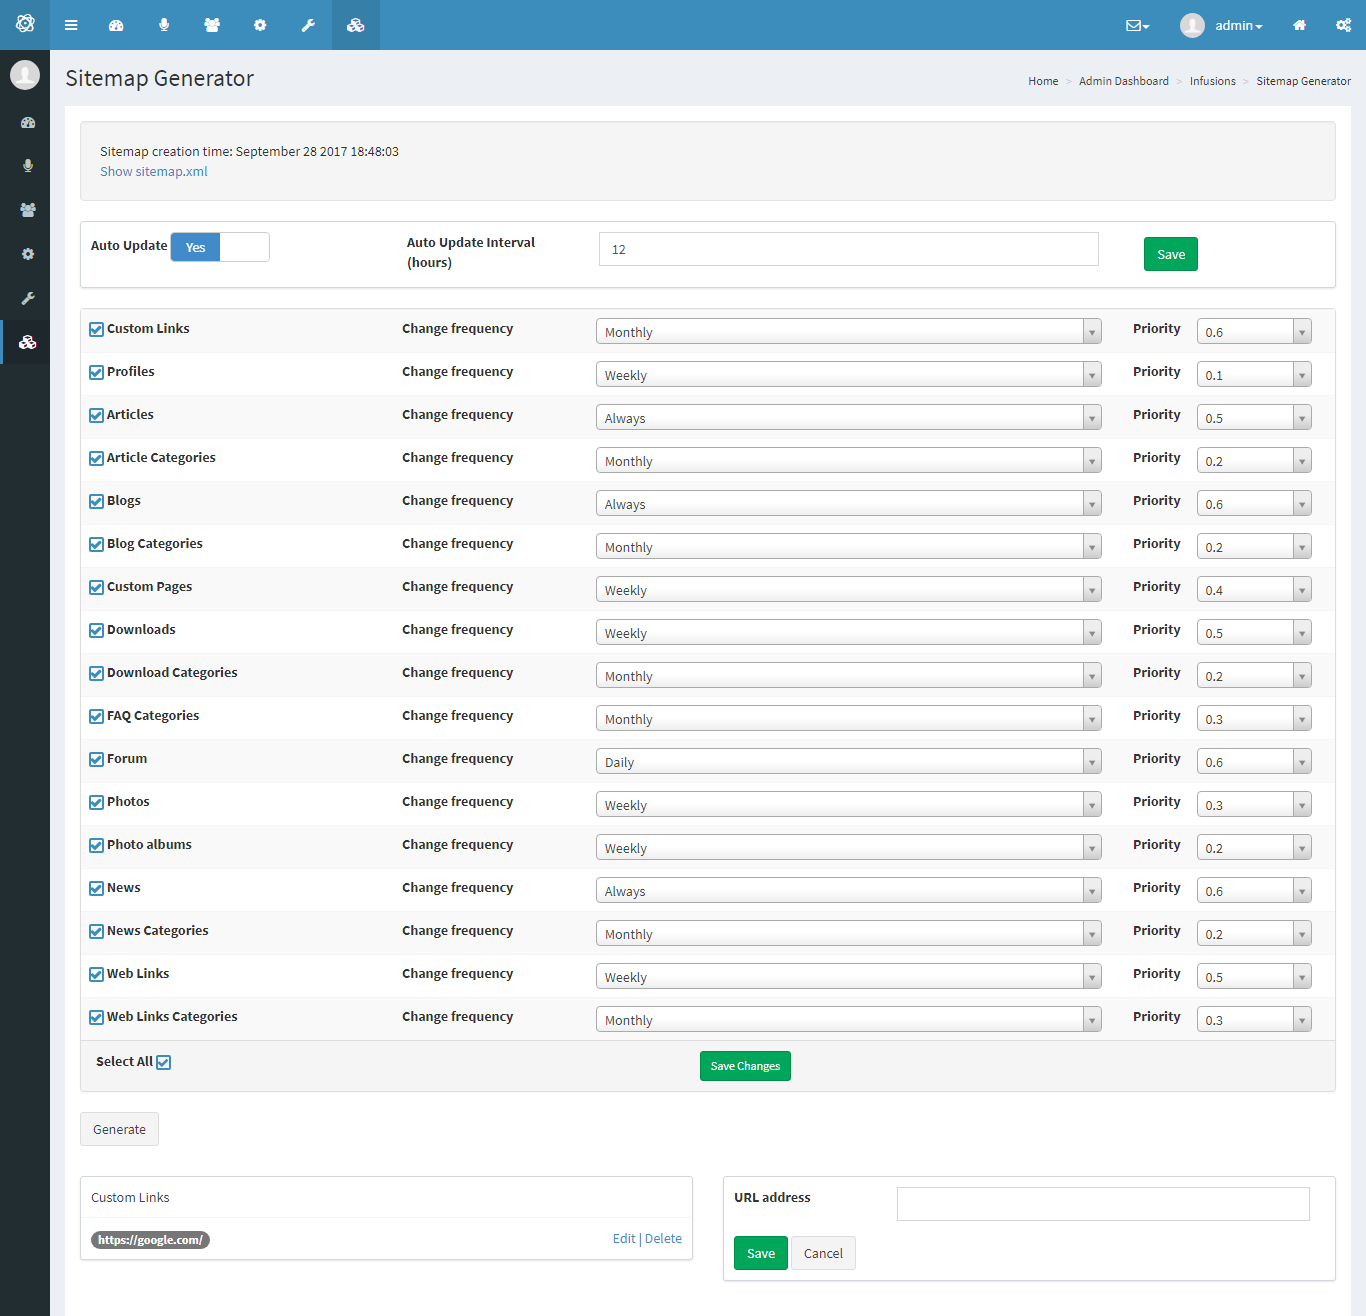
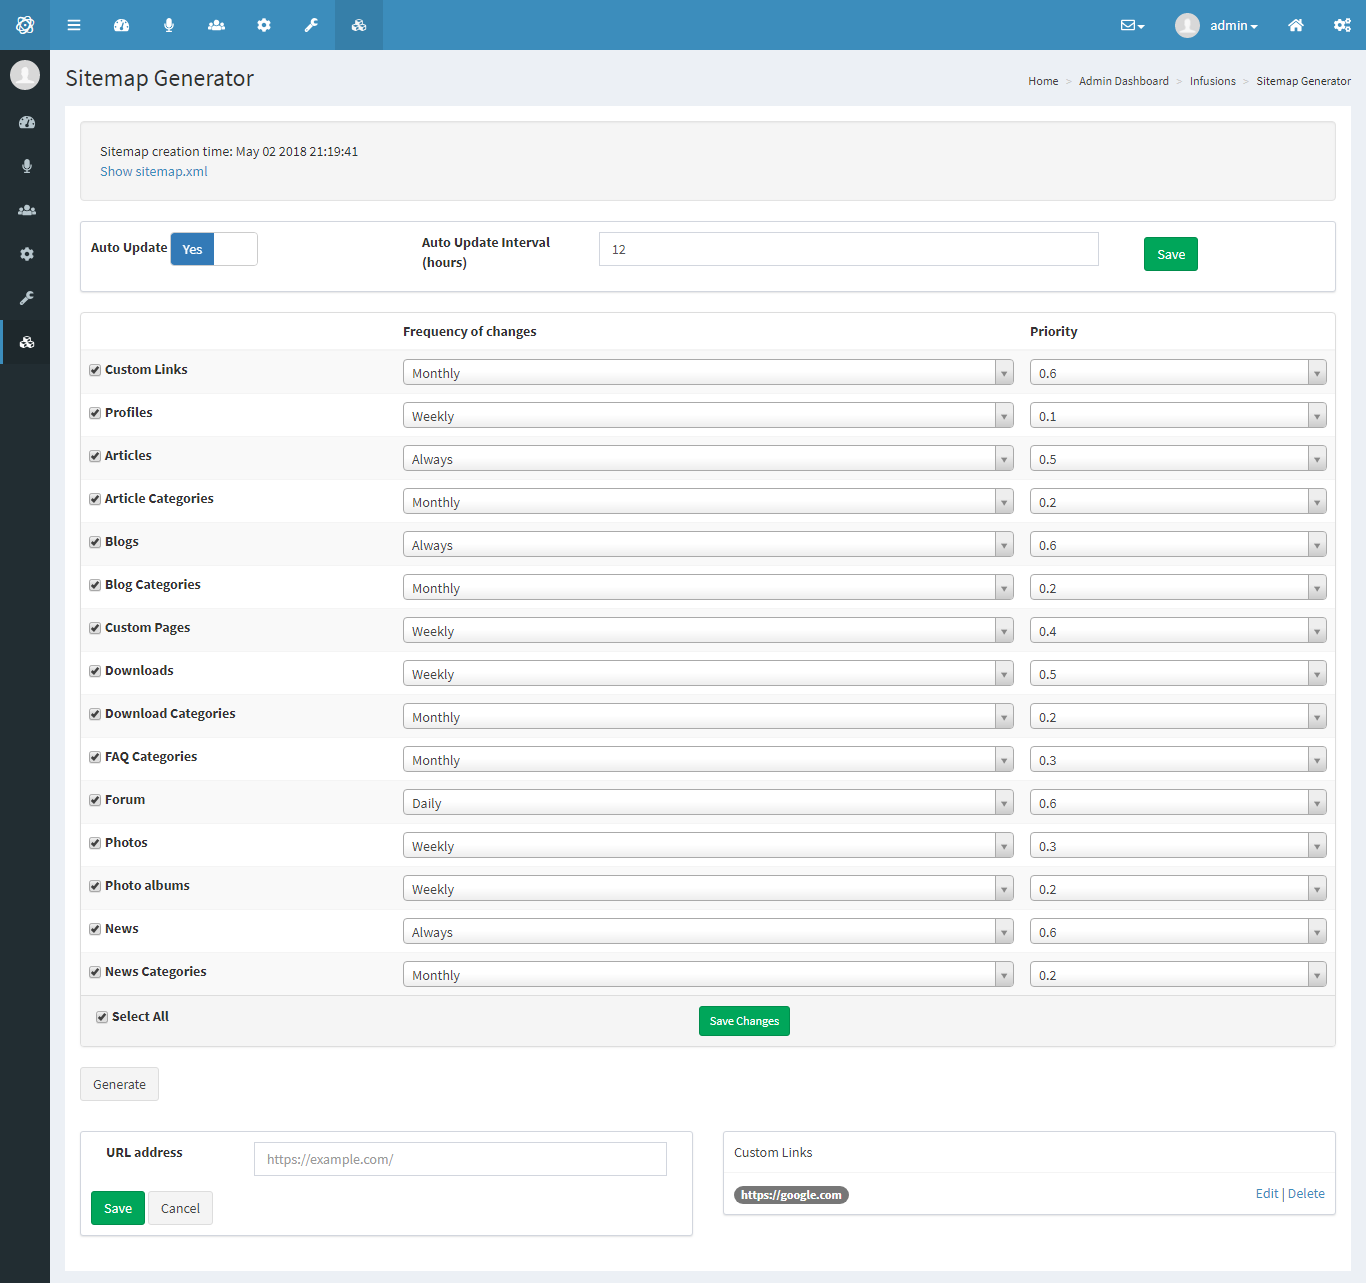
Update infusions

diff --git a/infusions/sitemap_panel/SitemapGenerator.php b/infusions/sitemap_panel/SitemapGenerator.php
@@ -18,7 +18,6 @@
 require_once INFUSIONS.'sitemap_panel/Sitemap.php';
 
 use \PHPFusion\BreadCrumbs;
-use samdark\sitemap\Sitemap;
 
 class SitemapGenerator {
     private $locale = [];
@@ -634,8 +633,8 @@ class SitemapGenerator {
                 ]);
                 $module .= '</td>';
 
-                $module .= '<td class="col-sm-7">';
-                $module .= form_select('frequency_'.$name, $this->locale['SMG_006'], $module_settings['frequency'], [
+                $module .= '<td class="col-sm-6">';
+                $module .= form_select('frequency_'.$name, '', $module_settings['frequency'], [
                     'inline'      => TRUE,
                     'options'     => [
                         'always'  => $this->locale['SMG_007'],
@@ -649,10 +648,9 @@ class SitemapGenerator {
                 ]);
                 $module .= '</td>';
 
-                $module .= '<td class="col-sm-2">';
-                $module .= form_select('priority_'.$name, $this->locale['SMG_014'], $module_settings['priority'], [
+                $module .= '<td class="col-sm-3">';
+                $module .= form_select('priority_'.$name, '', $module_settings['priority'], [
                     'inline'      => TRUE,
-                    'inner_width' => '60px',
                     'options'     => [
                         '0.0' => '0.0',
                         '0.1' => '0.1',
@@ -865,12 +863,20 @@ class SitemapGenerator {
         echo openform('savechanges', 'post', FUSION_REQUEST, ['class' => 'm-t-15']);
         echo '<div class="panel panel-default" id="sitemaptable">';
         echo '<div class="table-responsive"><table class="table table-striped">';
-            echo '<tbody>';
+            echo '<thead><tr>';
+                echo '<th></th>';
+                echo '<th>'.$this->locale['SMG_006'].'</th>';
+                echo '<th>'.$this->locale['SMG_014'].'</th>';
+            echo '</thead>';
+            echo '</tr><tbody>';
                 echo $this->Modules();
             echo '</tbody>';
         echo '</table></div>';
 
-        $selectall = form_checkbox('selectall', $this->locale['SMG_003'], '', ['class' => 'm-b-0']);
+        $selectall = form_checkbox('selectall', $this->locale['SMG_003'], '', [
+            'reverse_label' => TRUE,
+            'class'         => 'm-b-0'
+        ]);
         $save = form_button('save_changes', $this->locale['save_changes'], 'save', ['class' => 'btn-success btn-sm']);
 
         echo '<div class="panel-footer">';

diff --git a/infusions/videos/admin/video_cats.php b/infusions/videos/admin/video_cats.php
@@ -208,7 +208,7 @@ echo opentab($tab_cats, $tab_cats_active, 'categories', FALSE, 'nav-tabs m-b-10'
         FROM ".DB_VIDEO_CATS." vc_
         LEFT JOIN ".DB_VIDEO_CATS." vc ON vc.video_cat_parent=vc_.video_cat_id
         LEFT JOIN ".DB_VIDEOS." v ON v.video_cat=vc_.video_cat_id
-        WHERE vc_.video_cat_parent='".$data['video_cat_id']."' ".(multilang_table('VL') ? "AND vc_.video_cat_language='".LANGUAGE."'" : '')."
+        ".(multilang_table('VL') ? "WHERE vc_.video_cat_language='".LANGUAGE."'" : '')."
         GROUP by vc_.video_cat_id
         ORDER BY vc_.video_cat_name
     ");
@@ -219,7 +219,7 @@ echo opentab($tab_cats, $tab_cats_active, 'categories', FALSE, 'nav-tabs m-b-10'
                 echo '<div class="col-xs-12 col-sm-3">';
                     echo '<div class="well clearfix">';
                         echo '<div class="overflow-hide p-r-10">';
-                            echo '<span class="display-inline-block m-r-10 strong text-bigger">'.$data['video_cat_name'].'</span>';
+                            echo '<span class="display-inline-block m-r-10 strong text-bigger">'.get_video_cat_path($data['video_cat_id']).'</span>';
                             if ($data['video_cat_description']) {
                                 echo '<br /><small>'.fusion_first_words($data['video_cat_description'], 50).'</small>';
                             }
@@ -238,3 +238,23 @@ echo opentab($tab_cats, $tab_cats_active, 'categories', FALSE, 'nav-tabs m-b-10'
     }
     echo closetabbody();
 echo closetab();
+
+function get_video_cat_path($item_id) {
+    $full_path = '';
+
+    while ($item_id > 0) {
+        $result = dbquery("SELECT video_cat_id, video_cat_name, video_cat_parent FROM ".DB_VIDEO_CATS." WHERE video_cat_id='".$item_id."'".(multilang_table('VL') ? " AND video_cat_language='".LANGUAGE."'" : ''));
+
+        if (dbrows($result)) {
+            $data = dbarray($result);
+            if ($full_path) {
+                $full_path = ' / '.$full_path;
+            }
+
+            $full_path = $data['video_cat_name'].$full_path;
+            $item_id = $data['video_cat_parent'];
+        }
+    }
+
+    return $full_path;
+}

diff --git a/infusions/videos/templates/videos.php b/infusions/videos/templates/videos.php
@@ -155,7 +155,7 @@ if (!function_exists('display_video_menu')) {
             }
         echo '</ul>';
 
-        echo '<h4>'.$locale['VID_001'].'</h4>';
+        openside($locale['VID_001']);
         echo '<ul class="block">';
             $video_cat_menu = display_video_cats($info['video_categories']);
             if (!empty($video_cat_menu)) {
@@ -164,8 +164,9 @@ if (!function_exists('display_video_menu')) {
                 echo '<li>'.$locale['VID_072'].'</li>';
             }
         echo '</ul>';
+        closeside();
 
-        echo '<h4>'.$locale['VID_073'].'</h4>';
+        openside($locale['VID_073']);
             echo '<ul class="block">';
             if (!empty($info['video_author'])) {
                 foreach ($info['video_author'] as $author_id => $author_info) {
@@ -177,6 +178,7 @@ if (!function_exists('display_video_menu')) {
                 echo '<li>'.$locale['VID_074'].'</li>';
             }
         echo '</ul>';
+        closeside();
 
         return ob_get_clean();
     }

diff --git a/infusions/content_creator/content_creator.php b/infusions/content_creator/content_creator.php
@@ -407,7 +407,7 @@ class ContentCreator {
             for ($i = 1; $i <= $num; $i++) {
                 $download_cats = dbcount('(download_cat_id)', DB_DOWNLOAD_CATS);
                 $download_cats = rand(1, $download_cats);
-                $values .= "('".rand(1, $this->users)."', '".$this->locale['CC_018']." ".$i."', '".$this->short_text."', '".$this->body."', 'https://www.php-fusion.co.uk/home.php', ".$download_cats.", '".(time() - rand(0, time() / 2))."', 0, ".rand(1, 10000).", 1, 0)";
+                $values .= "('".rand(1, $this->users)."', '".$this->locale['CC_018']." ".$i."', '".$this->short_text."', '".$this->body."', 'https://www.php-fusion.co.uk/home.php', ".$download_cats.", '".(time() - rand(0, time() / 2))."', 0, ".rand(1, 10000).", 1, 1)";
                 $values .= $i < $num ? ', ' : ';';
             }
 

diff --git a/infusions/sitemap_panel/locale/English.php b/infusions/sitemap_panel/locale/English.php
@@ -23,7 +23,7 @@ $locale['SMG_002'] = 'Show sitemap.xml';
 $locale['SMG_003'] = 'Select All';
 $locale['SMG_004'] = 'Generate';
 $locale['SMG_005'] = 'URL address';
-$locale['SMG_006'] = 'Change frequency';
+$locale['SMG_006'] = 'Frequency of changes';
 $locale['SMG_007'] = 'Always';
 $locale['SMG_008'] = 'Hourly';
 $locale['SMG_009'] = 'Daily';

diff --git a/infusions/sitemap_panel/Sitemap.php b/infusions/sitemap_panel/Sitemap.php
@@ -17,9 +17,6 @@
 | copyright header is strictly prohibited without
 | written permission from the original author(s).
 +--------------------------------------------------------*/
-namespace samdark\sitemap;
-
-use XMLWriter;
 
 /**
  * Class Sitemap

diff --git a/README.md b/README.md
@@ -1,12 +1,12 @@
 # PHP-Fusion v9 Infusions
 
 - ### Infusions:
-    - [Actual Version Panel](https://github.com/RobiNN1/PHP-Fusion-Infusions/tree/master/infusions/actual_version_panel)
-    - [Content Creator](https://github.com/RobiNN1/PHP-Fusion-Infusions/tree/master/infusions/content_creator)
-    - [Most Read Blogs Panel](https://github.com/RobiNN1/PHP-Fusion-Infusions/tree/master/infusions/most_read_blogs_panel)
-    - [Most Read News Panel](https://github.com/RobiNN1/PHP-Fusion-Infusions/tree/master/infusions/most_read_news_panel)
-    - [Sitemap Generator](https://github.com/RobiNN1/PHP-Fusion-Infusions/tree/master/infusions/sitemap_panel)
-    - [Snow Effect](https://github.com/RobiNN1/PHP-Fusion-Infusions/tree/master/infusions/snow_panel)
-    - [Team](https://github.com/RobiNN1/PHP-Fusion-Infusions/tree/master/infusions/team)
-    - [Theme Switcher](https://github.com/RobiNN1/PHP-Fusion-Infusions/tree/master/infusions/theme_switcher_panel)
-    - [Videos](https://github.com/RobiNN1/PHP-Fusion-Infusions/tree/master/infusions/videos)
+    - [Actual Version Panel](infusions/actual_version_panel)
+    - [Content Creator](infusions/content_creator)
+    - [Most Read Blogs Panel](infusions/most_read_blogs_panel)
+    - [Most Read News Panel](infusions/most_read_news_panel)
+    - [Sitemap Generator](infusions/sitemap_panel)
+    - [Snow Effect](infusions/snow_panel)
+    - [Team](infusions/team)
+    - [Theme Switcher](infusions/theme_switcher_panel)
+    - [Videos](infusions/videos)

diff --git a/infusions/theme_switcher_panel/README.md b/infusions/theme_switcher_panel/README.md
@@ -2,9 +2,9 @@
 
 ![Version](https://img.shields.io/badge/Version-1.0.3-blue.svg)
 
-![Preview](https://raw.githubusercontent.com/RobiNN1/PHP-Fusion-Infusions/master/infusions/theme_switcher_panel/preview.png)
+![Preview](preview.png)
 
-##### In maincore.php Line 250, change set_theme() to
+##### In maincore.php change set_theme() to
 ```php
 $theme = !empty($_COOKIE[COOKIE_PREFIX.'theme']) ? $_COOKIE[COOKIE_PREFIX.'theme'] : (empty($userdata['user_theme']) ? fusion_get_settings('theme') : $userdata['user_theme']);
 set_theme($theme);

diff --git a/infusions/content_creator/README.md b/infusions/content_creator/README.md
@@ -3,6 +3,6 @@ Simple Content Creator for PHP Fusion 9
 
 ![Version](https://img.shields.io/badge/Version-1.1.4-blue.svg)
 
-**Not for use in a live environment!**
+**Warning: Not for use in a live environment!**
 
-![Preview](https://raw.githubusercontent.com/RobiNN1/PHP-Fusion-Infusions/master/infusions/content_creator/preview.png)
+![Preview](preview.png)

diff --git a/infusions/snow_panel/README.md b/infusions/snow_panel/README.md
@@ -3,4 +3,4 @@ Add nice looking animation effect of falling snow to your site
 
 ![Version](https://img.shields.io/badge/Version-1.0.0-blue.svg)
 
-![Preview](https://raw.githubusercontent.com/RobiNN1/PHP-Fusion-Infusions/master/infusions/snow_panel/preview.png)
+![Preview](preview.png)

diff --git a/infusions/actual_version_panel/README.md b/infusions/actual_version_panel/README.md
@@ -3,4 +3,4 @@ Simple Panel for Support Sites
 
 ![Version](https://img.shields.io/badge/Version-1.0.1-blue.svg)
 
-![Preview](https://raw.githubusercontent.com/RobiNN1/PHP-Fusion-Infusions/master/infusions/actual_version_panel/preview.png)
+![Preview](preview.png)

diff --git a/infusions/sitemap_panel/README.md b/infusions/sitemap_panel/README.md
@@ -3,4 +3,4 @@ XML Sitemap generator
 
 ![Version](https://img.shields.io/badge/Version-1.1.1-blue.svg)
 
-![Preview](https://raw.githubusercontent.com/RobiNN1/PHP-Fusion-Infusions/master/infusions/sitemap_panel/preview.png)
+![Preview](preview.png)
